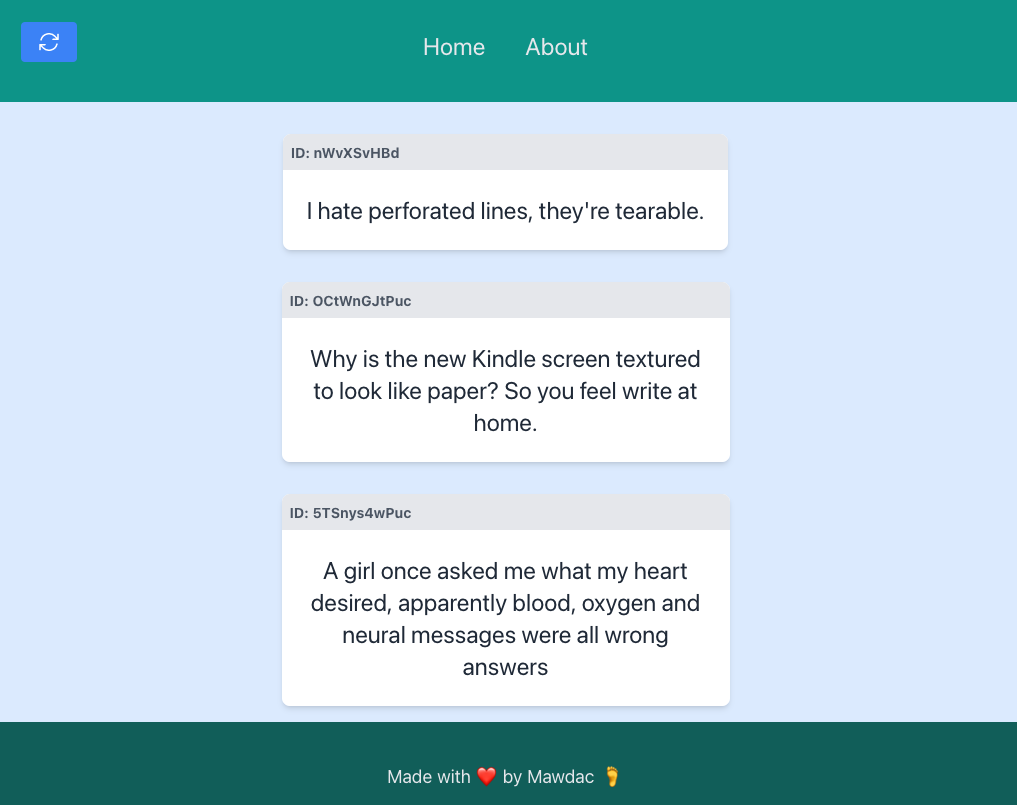
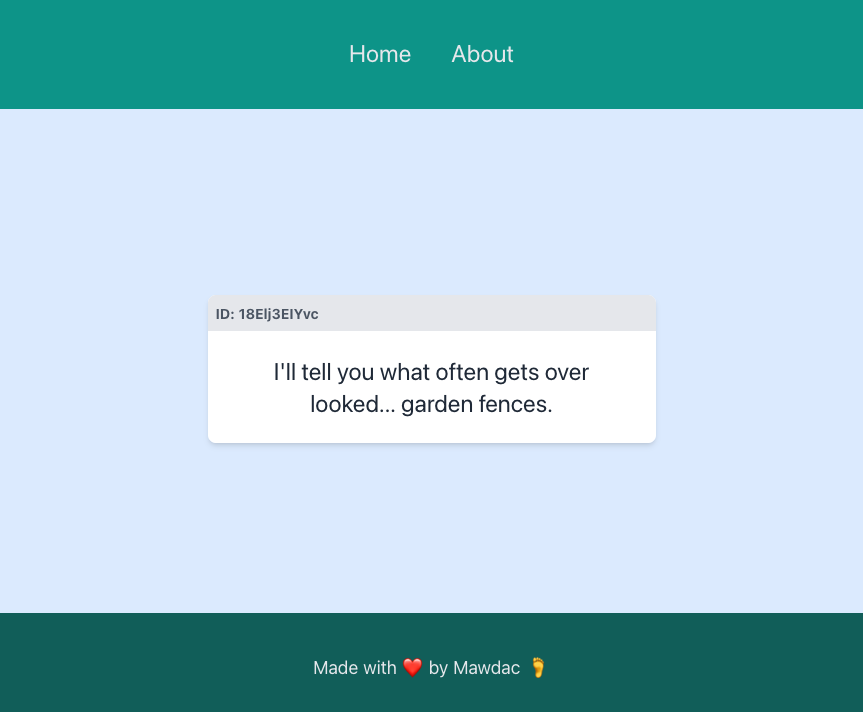
docs: update

diff --git a/README.md b/README.md
@@ -1,13 +1,16 @@
-# Dad Jokes
+# 👨
 
-This is a full-stack dad joke application. Everything you've ever dreamed of.
-
-It pulls dad jokes from the web, stores them in a local mongoDB instance, and
-allows you to view them from a simple UI in your browser.
+This is a full-stack golang dad joke application. Everything you've ever
+dreamed of.
 
 ![screenshot](./screenshot.png)
 
-Each piece is written with Golang. This is a work-in-progress, meant only to be
+It pulls dad jokes from the web, stores them in a local mongoDB instance, and
+allows you to view them from a simple UI in your browser. The UI refreshes
+every 5s, so each time you run the `collector` service, you'll get a new joke
+and see it appear.
+
+Each component is written with go. This is a work-in-progress, meant only to be
 a project for learning full-stack go apps. Feel free to poke around.
 
 ## Development
@@ -19,10 +22,21 @@ a project for learning full-stack go apps. Feel free to poke around.
 
 ### Backend
 
-From the root of the project, just run `docker compose watch` to start all of
+From the root of the project, just run `docker compose up -d` to start all of
 the backend components.
 
+The `collector` service will immediately exit after it runs and collects 1
+joke. To collect more jokes, simply run the same `up` command again:
+
 ### Frontend
+
+First you'll need the tailwindcli standalone binary, you can use my install
+script to make it real ez if you have
+[gum](https://github.com/charmbracelet/gum).
+
+```sh
+./ui/install.sh
+```
 
 The frontend runs separately currently. To run it with hot-reloading, first
 install [air](https://github.com/cosmtrek/air)
@@ -48,7 +62,7 @@ it to the database via the API. Each time it runs, a new joke is added.
 
 ### API
 
-Initially written with Gin, allows read and write of jokes to the database.
+Written with Gin, allows read and write of jokes to the database.
 
 ### Database
 
@@ -56,10 +70,14 @@ MongoDB
 
 ### UI
 
+Server-side rendered HTML. The API that serves up the UI is written with Chi
+(because why not try something different)
+
 - [Templ](https://templ.guide/)
 - [Tailwind](https://tailwindcss.com/)
 - [HTMX](https://htmx.org/)
 
 ## TODO
 
-- [ ] Refactor DB API to use Chi instead of Gin
+- [ ] Add tests
+- [ ] Add a makefile
